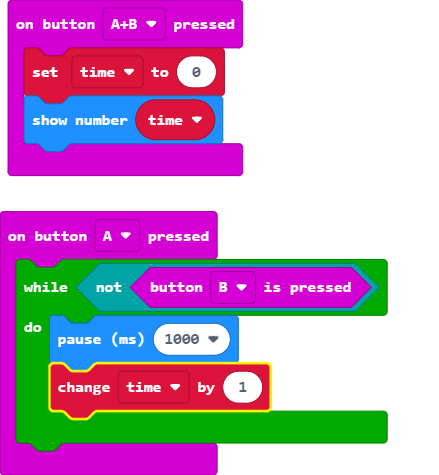
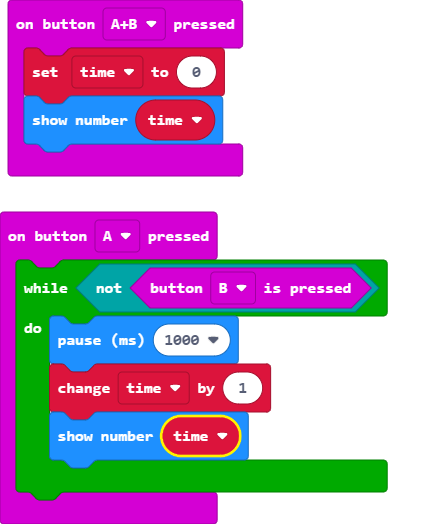
Update main.blocks, main.ts

diff --git a/main.ts b/main.ts
@@ -3,6 +3,7 @@ input.onButtonPressed(Button.A, function () {
     while (!(input.buttonIsPressed(Button.B))) {
         basic.pause(1000)
         time += 1
+        basic.showNumber(time)
     }
 })
 input.onButtonPressed(Button.AB, function () {
